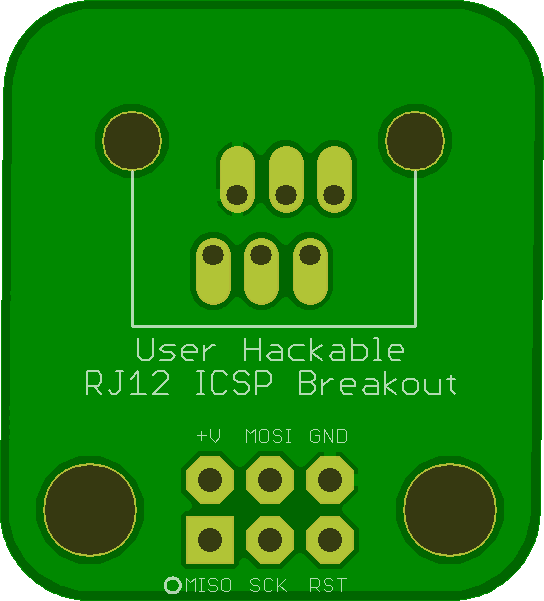
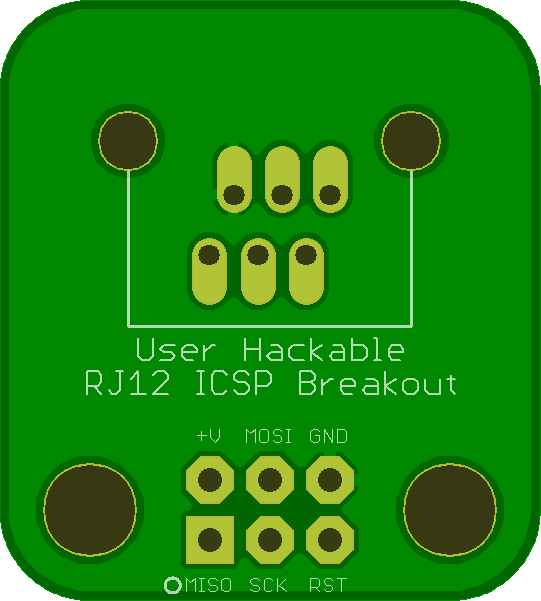
fixing ICSP breakout border

diff --git a/README.md b/README.md
@@ -62,9 +62,9 @@ It includes:
 
 ### Board dimensions
 
-* (90625, 100000) original units
-* (0.9062, 1.0000) inches
-* (23.0187, 25.4000) mm
+* (90000, 100000) original units
+* (0.9000, 1.0000) inches
+* (22.8600, 25.4000) mm
 
 
 

diff --git a/RJ11-ICSP-Breakout.md b/RJ11-ICSP-Breakout.md
@@ -3,9 +3,9 @@
 
 ### Board dimensions
 
-* (90625, 100000) original units
-* (0.9062, 1.0000) inches
-* (23.0187, 25.4000) mm
+* (90000, 100000) original units
+* (0.9000, 1.0000) inches
+* (22.8600, 25.4000) mm
 
 
 
